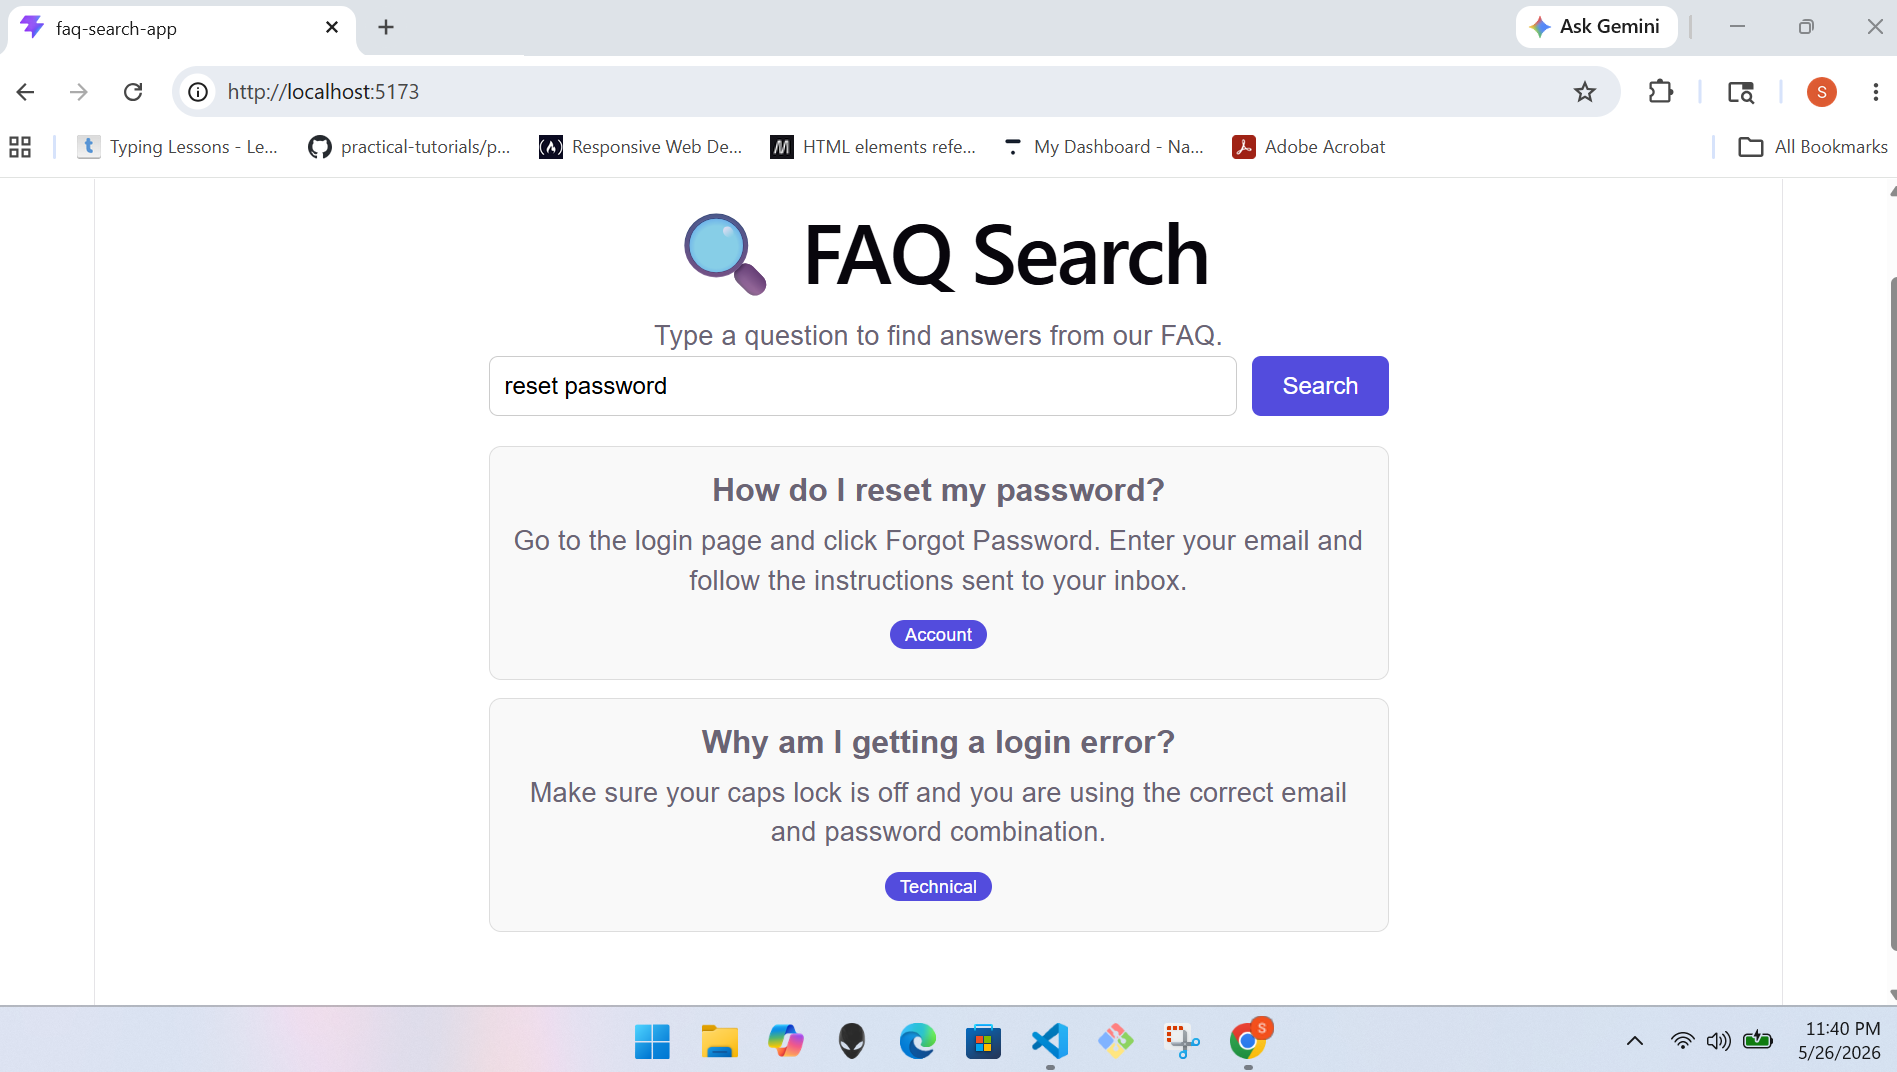
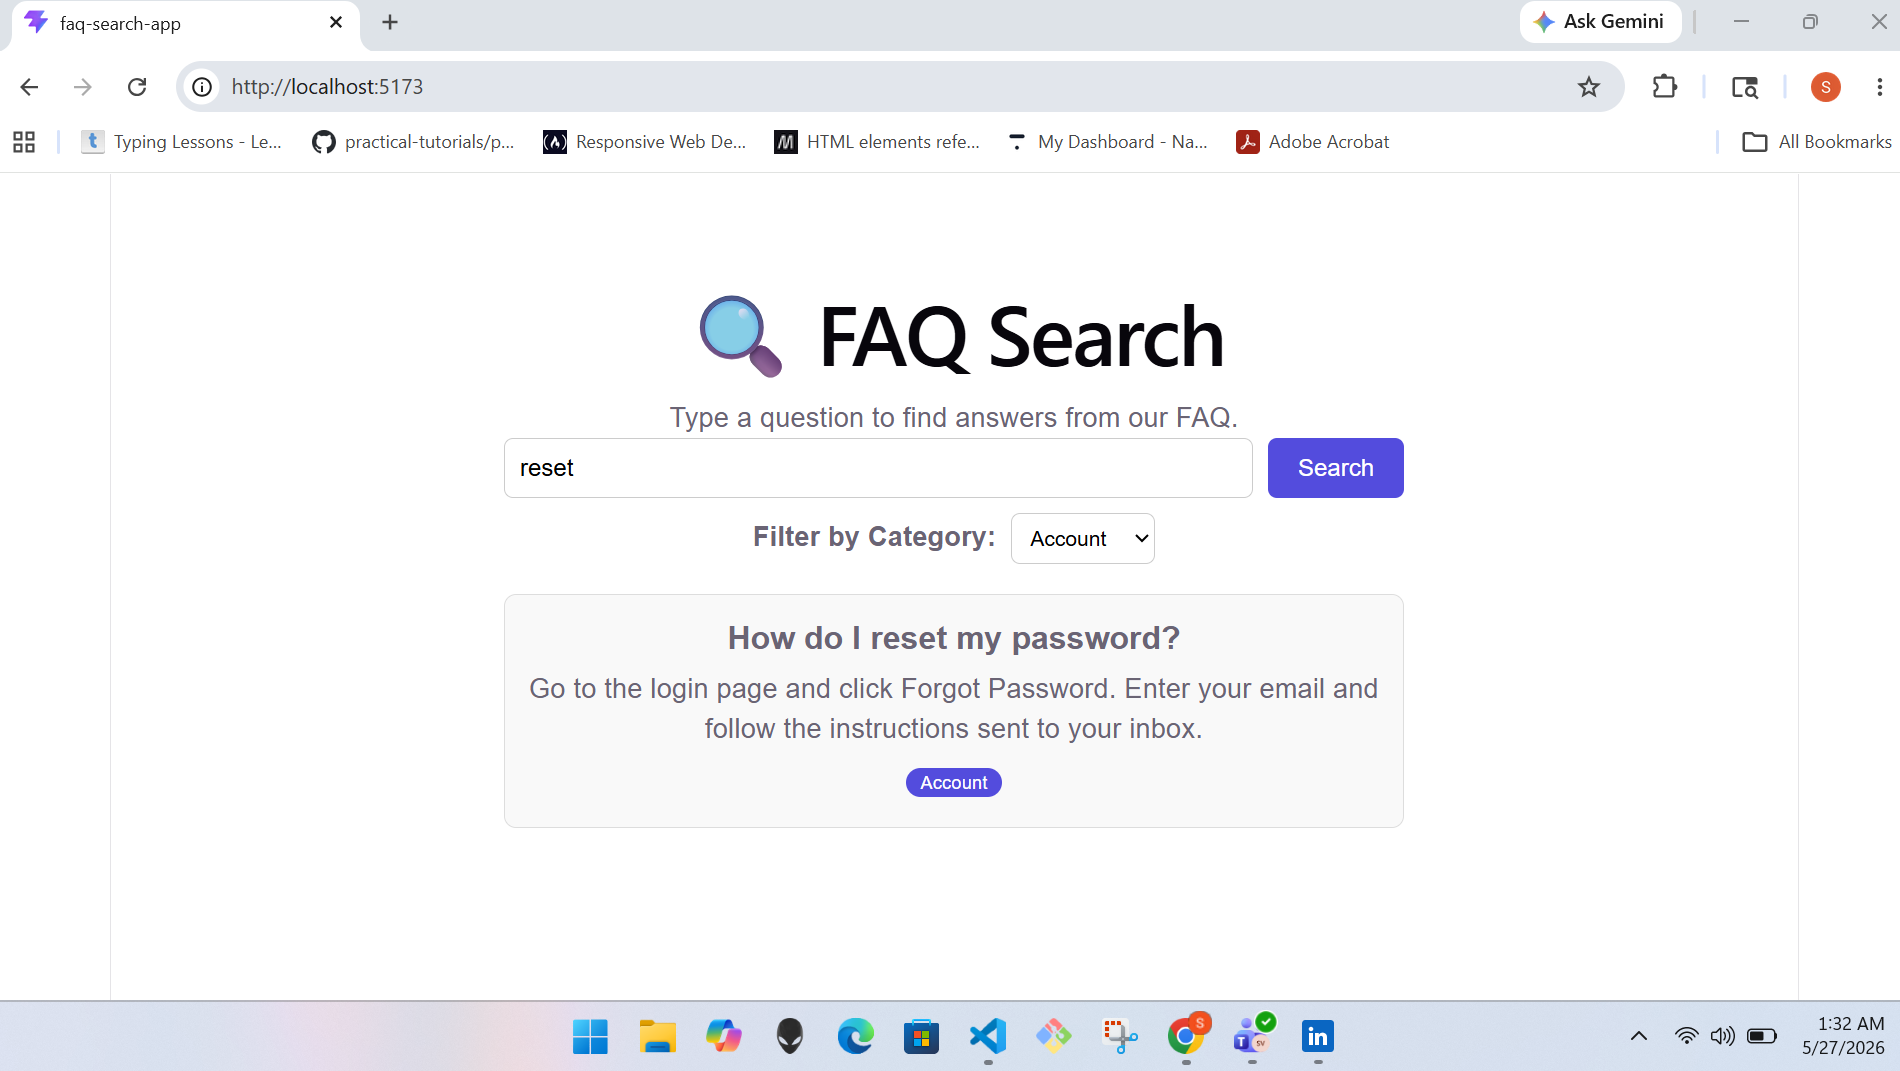
Add category filter, update screenshots and README

diff --git a/src/App.jsx b/src/App.jsx
@@ -6,16 +6,21 @@ function App() {
   const [query, setQuery] = useState("");
   const [results, setResults] = useState([]);
   const [message, setMessage] = useState("");
+  const [category, setCategory] = useState("All");
 
   const handleSearch = () => {
-    // If empty query, show warning message
     if (!query.trim()) {
       setMessage("⚠️ Please enter a search query.");
       setResults([]);
       return;
     }
 
-    const found = searchFaqs(query, faqs);
+    // Filter by category first if not "All"
+    const filteredFaqs = category === "All"
+      ? faqs
+      : faqs.filter((faq) => faq.category === category);
+
+    const found = searchFaqs(query, filteredFaqs);
 
     if (found.length === 0) {
       setMessage("❌ No results found.");
@@ -26,7 +31,6 @@ function App() {
     }
   };
 
-  // Allow pressing Enter key to search
   const handleKeyDown = (e) => {
     if (e.key === "Enter") {
       handleSearch();
@@ -38,7 +42,7 @@ function App() {
       <h1>🔍 FAQ Search</h1>
       <p>Type a question to find answers from our FAQ.</p>
 
-      <div style={{ display: "flex", gap: "10px", marginBottom: "20px" }}>
+      <div style={{ display: "flex", gap: "10px", marginBottom: "10px" }}>
         <input
           type="text"
           value={query}
@@ -53,6 +57,21 @@ function App() {
         >
           Search
         </button>
+      </div>
+
+      {/* Category Filter Dropdown */}
+      <div style={{ marginBottom: "20px" }}>
+        <label style={{ marginRight: "10px", fontWeight: "bold" }}>Filter by Category:</label>
+        <select
+          value={category}
+          onChange={(e) => setCategory(e.target.value)}
+          style={{ padding: "8px", borderRadius: "6px", border: "1px solid #ccc", fontSize: "14px" }}
+        >
+          <option value="All">All</option>
+          <option value="Billing">Billing</option>
+          <option value="Technical">Technical</option>
+          <option value="Account">Account</option>
+        </select>
       </div>
 
       {/* Show message if any */}

diff --git a/README.md b/README.md
@@ -42,15 +42,18 @@ The app uses TF-IDF (Term Frequency-Inverse Document Frequency) with Cosine Simi
 ### Search Results
 ![Results](./screenshots/results.png)
 
+### No Results Found
+![No Results](./screenshots/no-results.png)
+
 ## Sample Queries
 - `reset password`
 - `billing`
 - `app slow`
 
 ## Known Limitations
-- Uses simple keyword matching, does not understand synonyms or sentence meaning
-- No category filter dropdown
+- TF-IDF does not understand synonyms or semantic meaning
 - No backend REST API
+- No GitHub Actions workflow
 - Case sensitive partial matches only
 
 ## How I Would Upgrade This